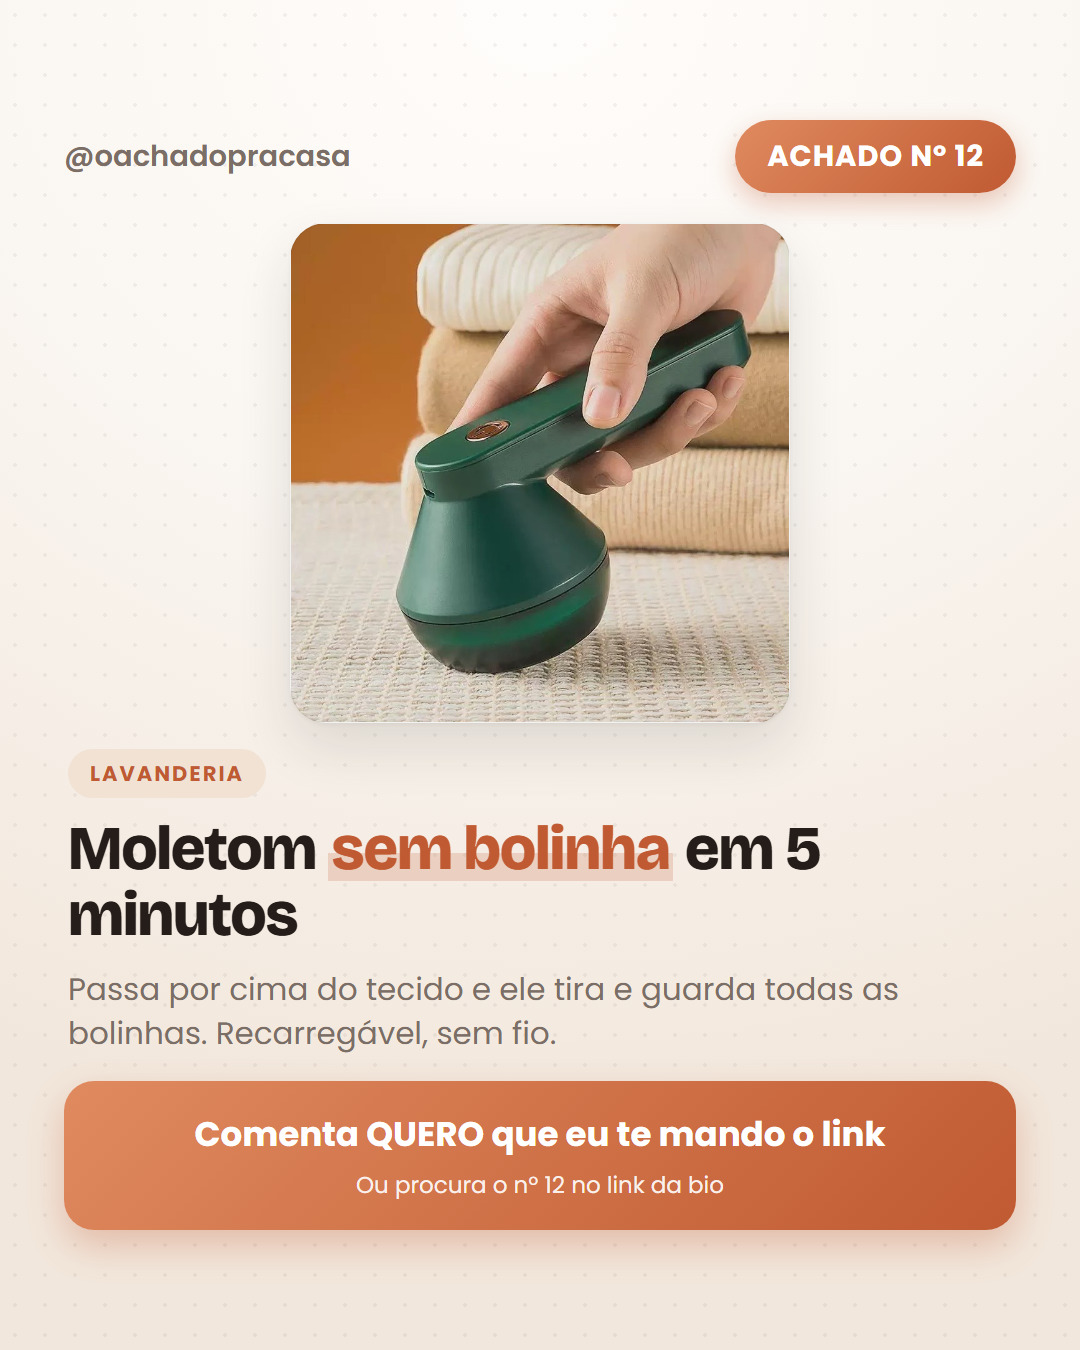
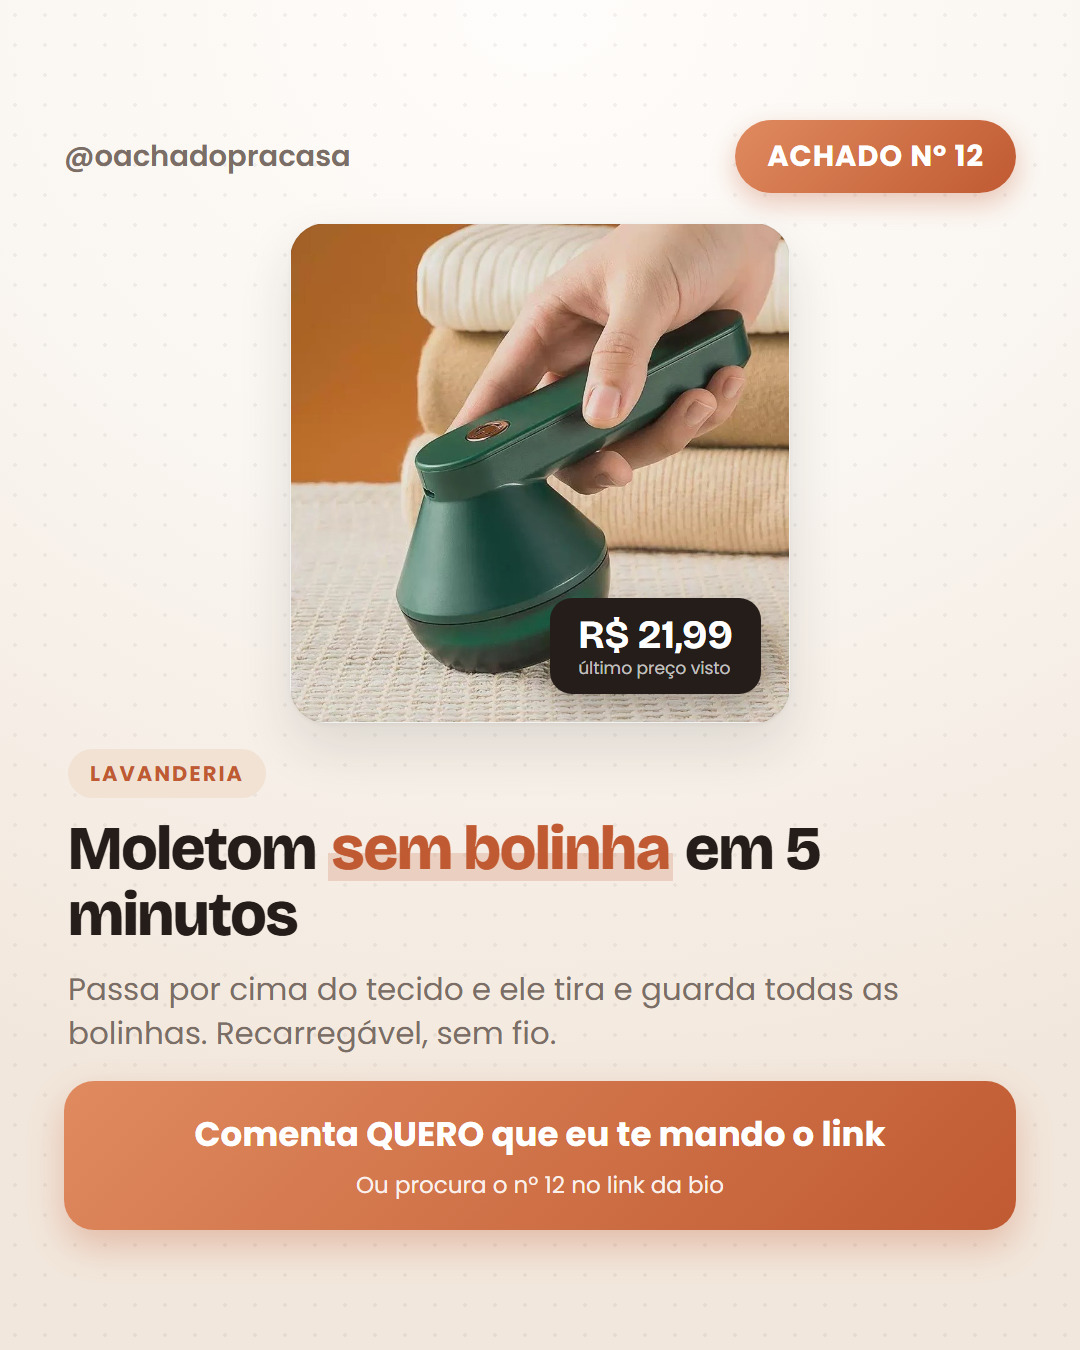
Atualiza página (12 produto(s))

Changed region(s): [[0.4889, 0.4356, 0.7028, 0.5289]]

diff --git a/index.html b/index.html
@@ -136,7 +136,7 @@
 </div>
 
 <script>
-  const DADOS = {"categorias":{"cozinha":{"nome":"Cozinha","emoji":"🍳"},"banheiro":{"nome":"Banheiro","emoji":"🛁"},"quarto":{"nome":"Quarto","emoji":"🛏"},"sala":{"nome":"Sala","emoji":"🛋"},"lavanderia":{"nome":"Lavanderia","emoji":"🧺"},"organizacao":{"nome":"Organização","emoji":"📦"},"limpeza":{"nome":"Limpeza","emoji":"🧹"}},"lojas":{"shopee":"Shopee","mercadolivre":"Mercado Livre"},"produtos":[{"id":12,"nome":"Papa-Bolinhas Elétrico Recarregável","loja":"shopee","categoria":"lavanderia","link":"https://s.shopee.com.br/9V1PxTuv3W","imagem":"https://down-br.img.susercontent.com/file/sg-11134201-821da-mh9eb9k11r0p48","preco":null},{"id":11,"nome":"Aspirador Vertical Britânia 2 em 1","loja":"shopee","categoria":"limpeza","link":"https://s.shopee.com.br/8fSI7Y8CUL","imagem":"https://down-br.img.susercontent.com/file/sg-11134201-8257t-msk294deek9517","preco":149.9},{"id":10,"nome":"Cafeteira Philco 15 Cafezinhos","loja":"shopee","categoria":"cozinha","link":"https://s.shopee.com.br/8pliJr7Z9M","imagem":"https://down-br.img.susercontent.com/file/sg-11134201-8258o-msk2369yxddtf4","preco":99.9},{"id":9,"nome":"Mini Liquidificador Portátil USB","loja":"shopee","categoria":"cozinha","link":"https://s.shopee.com.br/9fKpJO4OSV","imagem":"https://down-br.img.susercontent.com/file/br-11134207-7r98o-m326ai6rx4gl9c","preco":22.04},{"id":8,"nome":"Espremedor de Frutas Elétrico USB","loja":"shopee","categoria":"cozinha","link":"https://s.shopee.com.br/9peFVh3l7W","imagem":"https://down-br.img.susercontent.com/file/sg-11134201-8259f-msgkvfvn2sju02","preco":61.69},{"id":7,"nome":"Chaleira Elétrica Inox com Desligamento Automático","loja":"shopee","categoria":"cozinha","link":"https://s.shopee.com.br/9Khyum5f8P","imagem":"https://down-br.img.susercontent.com/file/br-11134207-820lc-mreq8encuolh62","preco":43.9},{"id":6,"nome":"Cozedor de Ovos Elétrico","loja":"shopee","categoria":"cozinha","link":"https://s.shopee.com.br/9V1P7551nQ","imagem":"https://down-br.img.susercontent.com/file/br-11134207-81z1k-mfytb2po8gzk07","preco":29.98},{"id":5,"nome":"Chaleira Elétrica Inox 1,8L","loja":"shopee","categoria":"cozinha","link":"https://s.shopee.com.br/AKaW6c1r6Z","imagem":"https://down-br.img.susercontent.com/file/br-11134207-820lg-mqfmutp6p53522","preco":44.59},{"id":4,"nome":"Chave T para Máquina de Lavar 10mm","loja":"shopee","categoria":"lavanderia","link":"https://s.shopee.com.br/AUtwIv1Dla","imagem":"https://down-br.img.susercontent.com/file/promo-dim-0100c60c95fde39beb972ee748354e938778","preco":23.74},{"id":3,"nome":"Picador e Processador Elétrico de Alimentos","loja":"shopee","categoria":"cozinha","link":"https://s.shopee.com.br/9zxfi037mT","imagem":"https://down-br.img.susercontent.com/file/sg-11134201-8262e-mjejrub4w35z78","preco":69.98},{"id":2,"nome":"Mixer Batedor Elétrico 2 em 1","loja":"shopee","categoria":"cozinha","link":"https://s.shopee.com.br/AAH5uJ2URU","imagem":"https://down-br.img.susercontent.com/file/sg-11134201-7rd48-lupf3z3a40mxf1","preco":18.99},{"id":1,"nome":"Omeleteira Agratto Mr Cheff Inox Redonda 127v / 220v","loja":"shopee","categoria":"cozinha","link":"https://s.shopee.com.br/1gIWFICgF0","imagem":"https://down-br.img.susercontent.com/file/br-11134207-820ll-mmc8h9uyaoee6b","preco":null}]};
+  const DADOS = {"categorias":{"cozinha":{"nome":"Cozinha","emoji":"🍳"},"banheiro":{"nome":"Banheiro","emoji":"🛁"},"quarto":{"nome":"Quarto","emoji":"🛏"},"sala":{"nome":"Sala","emoji":"🛋"},"lavanderia":{"nome":"Lavanderia","emoji":"🧺"},"organizacao":{"nome":"Organização","emoji":"📦"},"limpeza":{"nome":"Limpeza","emoji":"🧹"}},"lojas":{"shopee":"Shopee","mercadolivre":"Mercado Livre"},"produtos":[{"id":12,"nome":"Papa-Bolinhas Elétrico Recarregável","loja":"shopee","categoria":"lavanderia","link":"https://s.shopee.com.br/9V1PxTuv3W","imagem":"https://down-br.img.susercontent.com/file/sg-11134201-821da-mh9eb9k11r0p48","preco":21.99},{"id":11,"nome":"Aspirador Vertical Britânia 2 em 1","loja":"shopee","categoria":"limpeza","link":"https://s.shopee.com.br/8fSI7Y8CUL","imagem":"https://down-br.img.susercontent.com/file/sg-11134201-8257t-msk294deek9517","preco":149.9},{"id":10,"nome":"Cafeteira Philco 15 Cafezinhos","loja":"shopee","categoria":"cozinha","link":"https://s.shopee.com.br/8pliJr7Z9M","imagem":"https://down-br.img.susercontent.com/file/sg-11134201-8258o-msk2369yxddtf4","preco":99.9},{"id":9,"nome":"Mini Liquidificador Portátil USB","loja":"shopee","categoria":"cozinha","link":"https://s.shopee.com.br/9fKpJO4OSV","imagem":"https://down-br.img.susercontent.com/file/br-11134207-7r98o-m326ai6rx4gl9c","preco":22.04},{"id":8,"nome":"Espremedor de Frutas Elétrico USB","loja":"shopee","categoria":"cozinha","link":"https://s.shopee.com.br/9peFVh3l7W","imagem":"https://down-br.img.susercontent.com/file/sg-11134201-8259f-msgkvfvn2sju02","preco":61.69},{"id":7,"nome":"Chaleira Elétrica Inox com Desligamento Automático","loja":"shopee","categoria":"cozinha","link":"https://s.shopee.com.br/9Khyum5f8P","imagem":"https://down-br.img.susercontent.com/file/br-11134207-820lc-mreq8encuolh62","preco":43.9},{"id":6,"nome":"Cozedor de Ovos Elétrico","loja":"shopee","categoria":"cozinha","link":"https://s.shopee.com.br/9V1P7551nQ","imagem":"https://down-br.img.susercontent.com/file/br-11134207-81z1k-mfytb2po8gzk07","preco":29.98},{"id":5,"nome":"Chaleira Elétrica Inox 1,8L","loja":"shopee","categoria":"cozinha","link":"https://s.shopee.com.br/AKaW6c1r6Z","imagem":"https://down-br.img.susercontent.com/file/br-11134207-820lg-mqfmutp6p53522","preco":44.59},{"id":4,"nome":"Chave T para Máquina de Lavar 10mm","loja":"shopee","categoria":"lavanderia","link":"https://s.shopee.com.br/AUtwIv1Dla","imagem":"https://down-br.img.susercontent.com/file/promo-dim-0100c60c95fde39beb972ee748354e938778","preco":23.74},{"id":3,"nome":"Picador e Processador Elétrico de Alimentos","loja":"shopee","categoria":"cozinha","link":"https://s.shopee.com.br/9zxfi037mT","imagem":"https://down-br.img.susercontent.com/file/sg-11134201-8262e-mjejrub4w35z78","preco":69.98},{"id":2,"nome":"Mixer Batedor Elétrico 2 em 1","loja":"shopee","categoria":"cozinha","link":"https://s.shopee.com.br/AAH5uJ2URU","imagem":"https://down-br.img.susercontent.com/file/sg-11134201-7rd48-lupf3z3a40mxf1","preco":18.99},{"id":1,"nome":"Omeleteira Agratto Mr Cheff Inox Redonda 127v / 220v","loja":"shopee","categoria":"cozinha","link":"https://s.shopee.com.br/1gIWFICgF0","imagem":"https://down-br.img.susercontent.com/file/br-11134207-820ll-mmc8h9uyaoee6b","preco":null}]};
   const grade = document.getElementById('grade');
   const busca = document.getElementById('busca');
   const chips = document.getElementById('chips');
